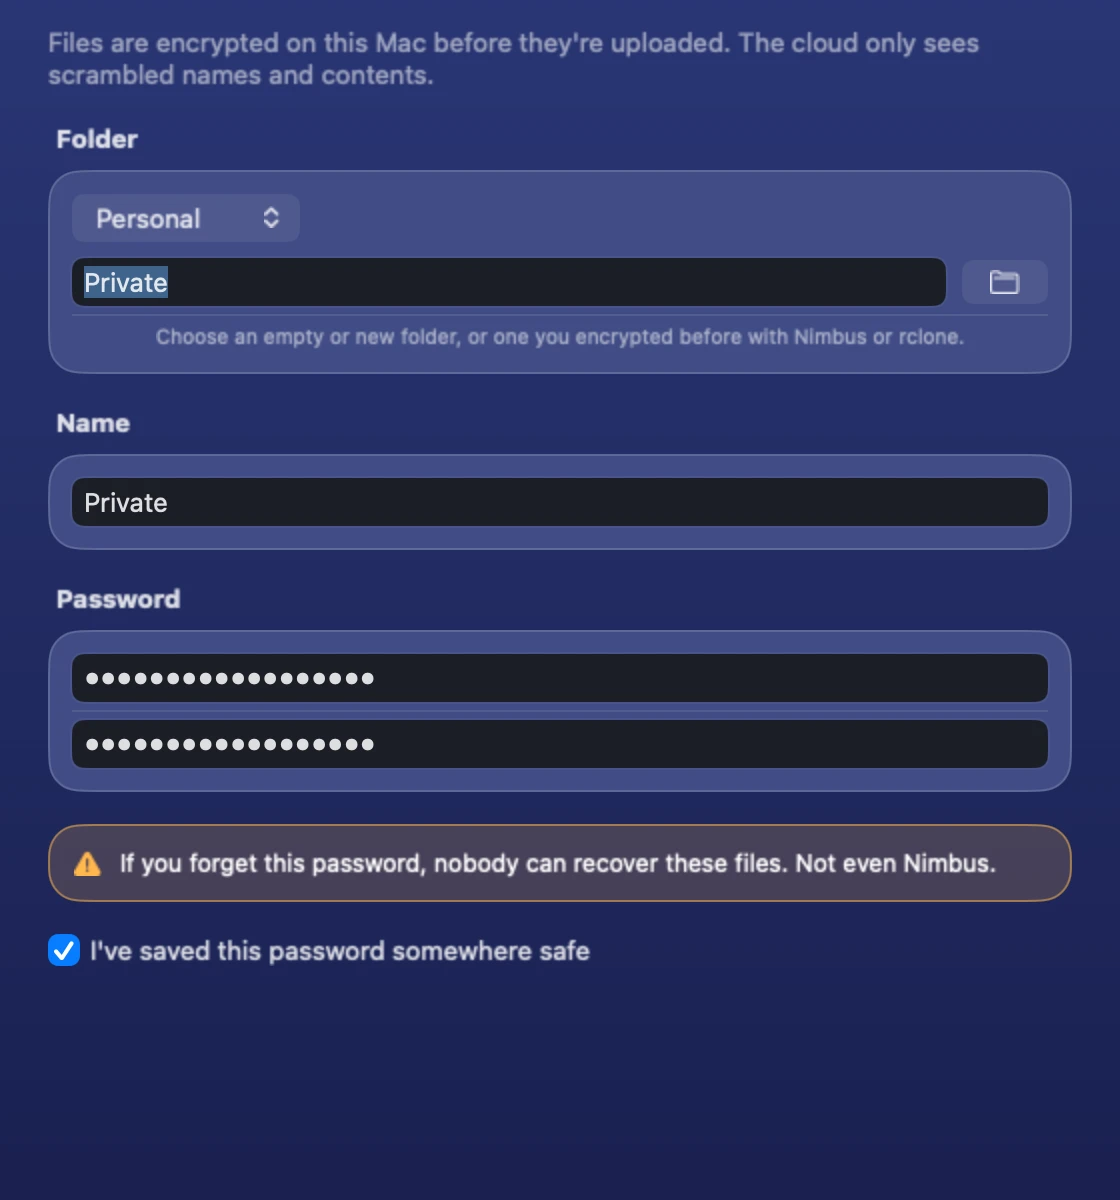
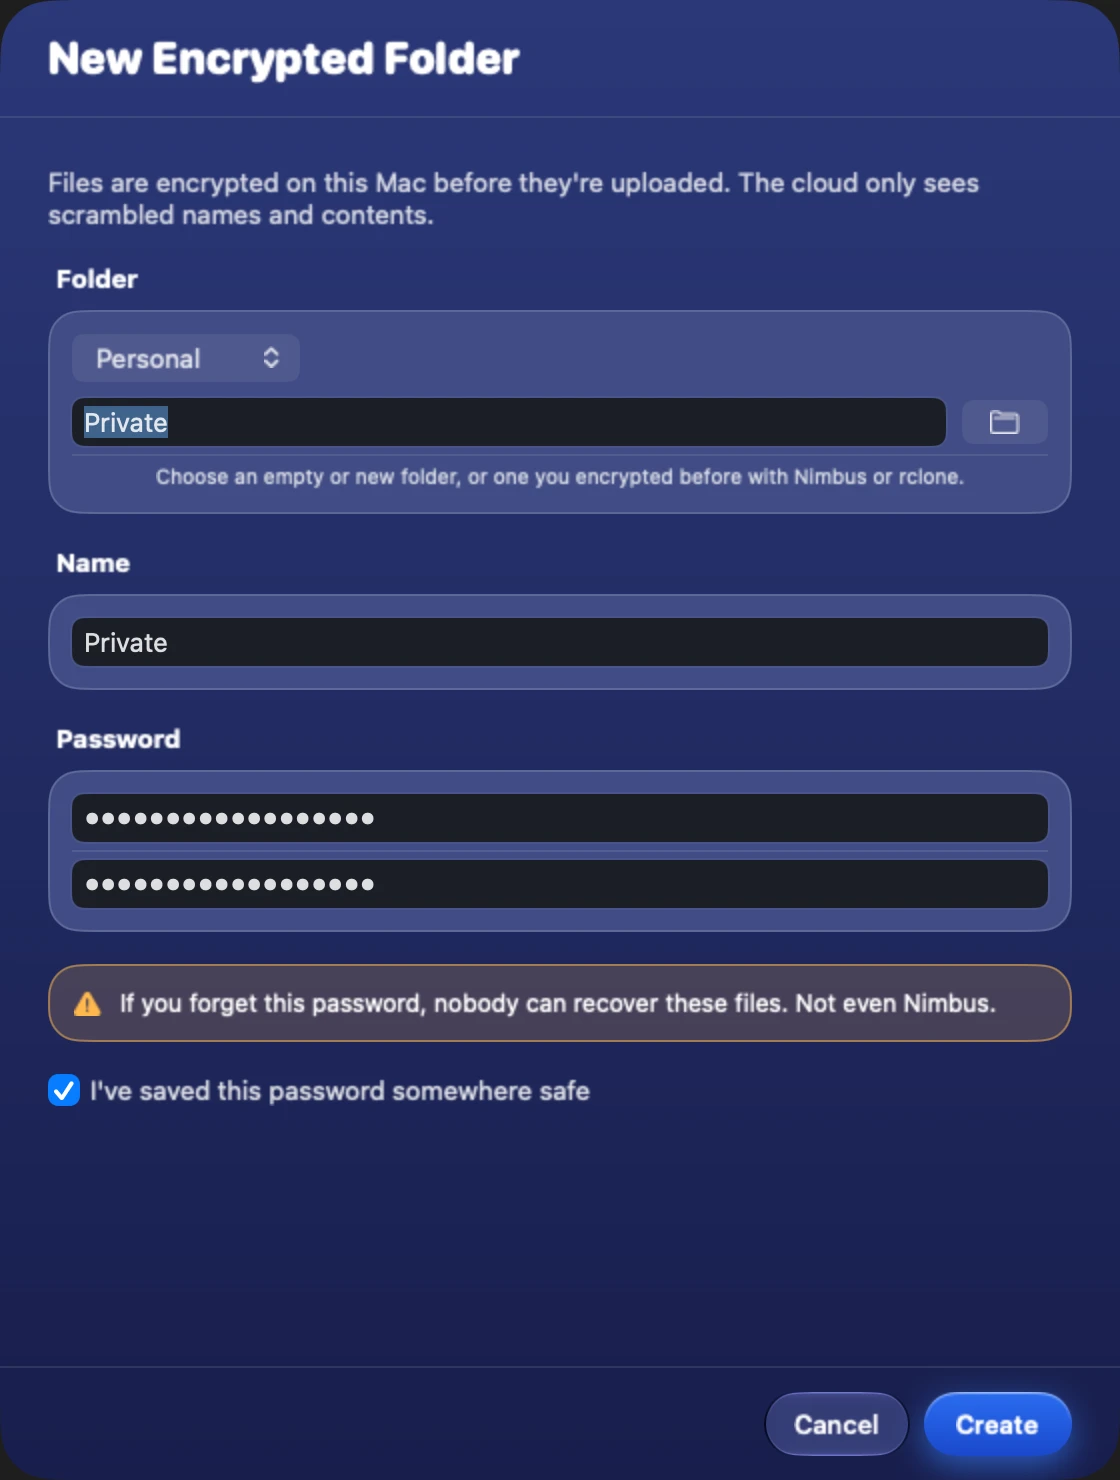
fix(nimbus): clean screenshots, re-rendered sheets and headline accents (#49)
Copy of site/ from CasaVargas/Nimbus#179: sheet corners clipped, the More
screenshots cropped or re-rendered, Keep on this Mac drawn in CSS, the File
Provider panel rebalanced, gradient headline accents.

diff --git a/public/nimbus/styles.css b/public/nimbus/styles.css
@@ -25,6 +25,7 @@
   --sky-low: #150c38;
   --action-top: #3d7dff;
   --action-low: #1f55e6;
+  --accent: linear-gradient(100deg, #6aa9ff, #a78bff 70%, #d08bff);
 
   --nav-h: 48px;
   --r-tile: 28px;
@@ -93,6 +94,8 @@ code { font-family: var(--mono); font-size: .9em; background: rgba(255,255,255,.
 .section--black { background: var(--black); color: var(--on-dark); }
 .section--black .win { box-shadow: 0 0 0 1px rgba(255,255,255,.12), 0 0 160px -20px rgba(72,120,255,.5); }
 @media (max-width: 700px) { .section { padding: 84px 0; } }
+/* Two black chapters in a row share one gap, not two. */
+.section--black + .section--black { padding-top: 0; }
 
 /* The app's backdrop: a navy-to-violet fall with two glows. */
 .sky {
@@ -106,8 +109,10 @@ code { font-family: var(--mono); font-size: .9em; background: rgba(255,255,255,.
 
 .head { text-align: center; max-width: 980px; margin: 0 auto 72px; }
 .head h2 { font-size: clamp(38px, 7vw, 84px); line-height: 1.02; letter-spacing: -0.03em; }
-.head h2 span { color: var(--ink-3); }
-.section--black .head h2 span, .sky .head h2 span { color: #8f93b0; }
+/* The second half of each headline is set in the page's one accent gradient,
+   the same one the manifesto's keywords use. */
+.head h2 span { color: transparent; background: var(--accent); -webkit-background-clip: text; background-clip: text;
+  -webkit-box-decoration-break: clone; box-decoration-break: clone; padding-bottom: .12em; }
 .lede { font-size: clamp(18px, 2vw, 21px); line-height: 1.4; color: var(--ink-2); max-width: 700px; margin: 22px auto 0; letter-spacing: -0.014em; }
 .section--black .lede { color: var(--on-dark-2); }
 .sky .lede { color: #c5c9e6; }
@@ -227,8 +232,28 @@ code { font-family: var(--mono); font-size: .9em; background: rgba(255,255,255,.
 
 .tile__img { margin: -10px -10px 26px; }
 .tile__img img { width: 100%; border-radius: 14px; box-shadow: 0 0 0 1px rgba(255,255,255,.12), 0 24px 50px -20px rgba(0,0,0,.7); }
-.tile__img--sheet img { border-radius: 22px 22px 14px 14px; }
-.tile__img--small { max-width: 240px; margin: 0 0 auto; padding-bottom: 26px; }
+/* A screenshot whose lower half is empty: keep the top, fade the cut. */
+.tile__img--crop { position: relative; }
+.tile__img--crop img { aspect-ratio: var(--crop); object-fit: cover; object-position: top; }
+.tile__img--crop::after { content: ""; position: absolute; inset: 86% -1px -1px; pointer-events: none;
+  background: linear-gradient(180deg, rgba(12,16,48,0), #0c1030); }
+/* A whole sheet. The render is opaque, black outside its rounded corners,
+   so the corners are cut here, as they are for the Add Cloud sheets. */
+.tile__img--sheet { container-type: inline-size; }
+.tile--dark .tile__img--sheet img { border-radius: 5cqw; }
+/* A plain system sheet, square in the render: round it and ring it here. */
+.tile__img--frame { border-radius: 14px; overflow: hidden; box-shadow: 0 0 0 1px rgba(255,255,255,.12), 0 24px 50px -20px rgba(0,0,0,.7); }
+.tile--dark .tile__img--frame img { border-radius: 0; box-shadow: none; }
+
+/* Keep on this Mac: the inspector's switch, drawn. */
+.tile__top { margin-bottom: auto; padding-bottom: 30px; }
+.keep { max-width: 300px; padding: 16px 18px; border-radius: 18px; background: rgba(255,255,255,.07);
+  box-shadow: inset 0 1px 0 rgba(255,255,255,.16), inset 0 0 0 1px rgba(255,255,255,.08); }
+.tile .keep__row { display: flex; align-items: center; justify-content: space-between; gap: 16px; font-size: 16px; font-weight: 600; color: #fff; }
+.keep__switch { position: relative; flex: none; width: 44px; height: 26px; border-radius: 13px;
+  background: linear-gradient(var(--action-top), var(--action-low)); box-shadow: 0 0 22px rgba(61,125,255,.7); }
+.keep__switch::after { content: ""; position: absolute; top: 2px; right: 2px; width: 22px; height: 22px; border-radius: 50%; background: #fff; box-shadow: 0 1px 3px rgba(0,0,0,.4); }
+.tile .keep__note { margin-top: 6px; font-size: 13px; color: var(--ink-3); }
 @media (max-width: 900px) {
   .bento, .bento--2 { grid-template-columns: 1fr; }
   .tile--span2, .tile--span3 { grid-column: auto; }
@@ -246,11 +271,14 @@ code { font-family: var(--mono); font-size: .9em; background: rgba(255,255,255,.
 .tile .ring__label span { font-size: 13px; color: #c5c9e6; margin-top: 6px; }
 
 /* ---------- Add Cloud sheets ---------- */
-.sheets { display: grid; grid-template-columns: 1184fr 1200fr; gap: 44px; align-items: start; max-width: 940px; margin: 0 auto; }
-.sheets img { filter: drop-shadow(0 30px 50px rgba(0,0,0,.45)); }
+.sheets { display: grid; grid-template-columns: 1184fr 1200fr; gap: 44px; align-items: center; max-width: 940px; margin: 0 auto; }
+/* The renders are opaque, with black outside the sheet's rounded corners, so
+   the corners are cut here: a radius that scales with the picture. */
+.sheets figure { container-type: inline-size; }
+.sheets img { width: 100%; border-radius: 5cqw; box-shadow: 0 0 0 1px rgba(255,255,255,.14), 0 30px 60px -20px rgba(0,0,0,.6), 0 0 120px -30px rgba(72,120,255,.6); }
 @media (max-width: 760px) { .sheets { grid-template-columns: 1fr; max-width: 440px; } }
 .sheets--backups { grid-template-columns: 1272fr 1200fr; margin-top: 56px; align-items: center; }
-.sheets--backups img { border-radius: 20px; filter: none; box-shadow: 0 0 0 1px rgba(255,255,255,.12), 0 0 120px -30px rgba(72,120,255,.6); }
+.sheets--backups img { border-radius: 4.4cqw; }
 .section--black .sheets figcaption { color: #8f93b0; }
 @media (max-width: 760px) { .sheets--backups { grid-template-columns: 1fr; } }
 
@@ -326,7 +354,7 @@ code { font-family: var(--mono); font-size: .9em; background: rgba(255,255,255,.
 .manifesto { background: var(--black); color: var(--on-dark); padding: 120px 0 40px; }
 .manifesto__pin { max-width: 1080px; margin: 0 auto; padding: 0 22px; }
 .manifesto__text { font-family: var(--display); font-weight: 700; font-size: clamp(30px, 5.6vw, 68px); line-height: 1.1; letter-spacing: -0.028em; text-wrap: balance; }
-.manifesto__text b { font-weight: inherit; color: transparent; background: linear-gradient(100deg, #6aa9ff, #a78bff 70%, #d08bff); -webkit-background-clip: text; background-clip: text; }
+.manifesto__text b { font-weight: inherit; color: transparent; background: var(--accent); -webkit-background-clip: text; background-clip: text; }
 
 /* ---------- On your Mac: the wall of system surfaces ---------- */
 .mac { position: relative; overflow: hidden; padding-top: 120px; }
@@ -347,7 +375,7 @@ code { font-family: var(--mono); font-size: .9em; background: rgba(255,255,255,.
 .sys__copy p { margin-top: 10px; font-size: 17px; line-height: 1.4; color: #b9bedd; max-width: 17em; }
 /* The panel hangs from the top edge, the way it hangs from the menu bar. */
 .sys__tile--menubar .sys__copy { max-width: 46%; }
-.sys__tile--menubar img { position: absolute; right: 36px; top: 0; width: min(44%, 300px); border-radius: 0 0 18px 18px;
+.sys__tile--menubar img { position: absolute; right: 36px; top: 0; height: calc(100% - 30px); width: auto; border-radius: 0 0 18px 18px;
   box-shadow: 0 0 0 1px rgba(255,255,255,.14), 0 30px 80px -20px rgba(40,70,200,.7); }
 .acts { margin-top: 28px; display: grid; gap: 10px; }
 .acts li { display: flex; align-items: center; gap: 12px; padding: 12px 14px; border-radius: 16px; font-size: 16px; font-weight: 600; color: #fff;
@@ -363,10 +391,10 @@ code { font-family: var(--mono); font-size: .9em; background: rgba(255,255,255,.
 .sys-list dd { margin-top: 6px; font-size: 15px; line-height: 1.45; color: #b9bedd; }
 @media (max-width: 900px) { .sys { grid-template-columns: 1fr; } .sys-list { grid-template-columns: repeat(2, 1fr); } }
 @media (max-width: 600px) { .sys-list { grid-template-columns: 1fr; } .sys__tile { padding: 28px; }
-  .sys__tile--menubar { min-height: 0; padding-bottom: 0; } .sys__tile--menubar .sys__copy { max-width: none; } .sys__tile--menubar img { position: static; width: 78%; margin: 24px auto 0; border-radius: 18px 18px 0 0; } }
+  .sys__tile--menubar { min-height: 0; padding-bottom: 0; } .sys__tile--menubar .sys__copy { max-width: none; } .sys__tile--menubar img { position: static; width: 78%; height: auto; margin: 24px auto 0; border-radius: 18px 18px 0 0; } }
 
 /* File Provider: the one panel the chapter is about. */
-.fp { display: grid; grid-template-columns: 5fr 7fr; gap: 48px; align-items: center; border-radius: 36px; padding: clamp(28px, 4.4vw, 60px);
+.fp { display: grid; grid-template-columns: 11fr 9fr; gap: 56px; align-items: center; border-radius: 36px; padding: clamp(28px, 4.4vw, 60px);
   background:
     radial-gradient(70% 90% at 100% 0%, rgba(64,120,255,.42), transparent 70%),
     radial-gradient(60% 80% at 0% 100%, rgba(128,72,255,.34), transparent 70%),
@@ -375,13 +403,14 @@ code { font-family: var(--mono); font-size: .9em; background: rgba(255,255,255,.
 .fp h3 { font-family: var(--display); font-weight: 700; font-size: clamp(44px, 6.4vw, 84px); line-height: .98; letter-spacing: -0.035em;
   color: transparent; background: linear-gradient(100deg, #fff 10%, #9fc0ff 60%, #b99cff); -webkit-background-clip: text; background-clip: text; padding-bottom: .08em; }
 .fp__lede { font-size: clamp(18px, 2vw, 22px); line-height: 1.35; color: #dfe3fa; margin-top: 14px; letter-spacing: -0.015em; }
-.fp__list { margin-top: 26px; display: grid; gap: 12px; }
+.fp__list { display: grid; gap: 14px; }
 .fp__list li { font-size: 16px; line-height: 1.42; color: #b9bedd; padding-left: 18px; position: relative; }
 .fp__list li::before { content: ""; position: absolute; left: 0; top: .62em; width: 6px; height: 6px; border-radius: 50%; background: #6aa9ff; }
 .fp__list strong { color: #fff; font-weight: 600; }
 .fp__fine { margin-top: 26px; font-size: 14px; font-weight: 600; color: #9fc0ff; }
+.fp__shot { margin-top: 36px; }
 .fp__shot img { width: 100%; border-radius: 14px; box-shadow: 0 0 0 1px rgba(255,255,255,.16), 0 40px 80px -24px rgba(0,0,0,.75); }
-@media (max-width: 900px) { .fp { grid-template-columns: 1fr; gap: 32px; } .fp__shot { order: -1; } }
+@media (max-width: 900px) { .fp { grid-template-columns: 1fr; gap: 32px; } }
 /* ---------- Privacy: three zeros ---------- */
 .zeros { display: grid; grid-template-columns: repeat(3, 1fr); gap: 24px; text-align: center; margin: 0 0 72px; }
 .zeros dt { font-family: var(--display); font-weight: 700; font-size: clamp(96px, 17vw, 200px); line-height: .9; letter-spacing: -0.04em;

diff --git a/public/nimbus/index.html b/public/nimbus/index.html
@@ -127,9 +127,12 @@
     </header>
 
     <article class="fp">
-      <div class="fp__copy">
+      <div class="fp__main">
         <h3>File Provider</h3>
         <p class="fp__lede">One Apple framework, and everything Finder knows how to do with a cloud comes with it.</p>
+        <figure class="fp__shot"><img src="assets/finder-demo.png" width="920" height="406" alt="A Finder window open on a cloud named Nimbus - Personal, listed under Locations beside iCloud Drive. Photos and PDFs show real thumbnails, each with a cloud badge, before any file is downloaded. Demo files." loading="lazy"></figure>
+      </div>
+      <div class="fp__copy">
         <ul class="fp__list">
           <li><strong>Under Locations.</strong> Each cloud sits in Finder’s sidebar and in every app’s Open and Save panel.</li>
           <li><strong>Files on demand.</strong> A file downloads when you open it. macOS manages the local copies and frees the space when it needs to.</li>
@@ -142,7 +145,6 @@
         </ul>
         <p class="fp__fine">No kernel extension. No FUSE. Nothing to approve in Recovery.</p>
       </div>
-      <figure class="fp__shot"><img src="assets/finder-demo.png" width="920" height="406" alt="A Finder window open on a cloud named Nimbus - Personal, listed under Locations beside iCloud Drive. Photos and PDFs show real thumbnails, each with a cloud badge, before any file is downloaded. Demo files." loading="lazy"></figure>
     </article>
 
     <h3 class="wall__title">And everywhere else macOS offers an app a place to live.</h3>
@@ -199,9 +201,12 @@
         <p>Photos and PDFs in the cloud show real previews in Finder, made on demand and cached, so you can find the right file without pulling it down first.</p>
       </article>
       <article class="tile tile--white">
-        <figure class="tile__img tile__img--small">
-          <img src="assets/keep-on-this-mac.png" width="240" height="118" alt="The Keep on this Mac switch." loading="lazy">
-        </figure>
+        <div class="tile__top">
+          <div class="keep" role="img" aria-label="The Keep on this Mac switch, turned on. Stays downloaded and up to date.">
+            <p class="keep__row"><span>Keep on this Mac</span><i class="keep__switch"></i></p>
+            <p class="keep__note">Stays downloaded and up to date.</p>
+          </div>
+        </div>
         <h3>Keep on this Mac</h3>
         <p>Pin a file or folder and it stays downloaded. Finder’s own “Keep Downloaded” and “Remove Download” commands work too.</p>
       </article>
@@ -386,22 +391,22 @@
     </header>
     <div class="bento">
       <article class="tile tile--dark tile--span2 tile--top">
-        <figure class="tile__img"><img src="assets/search.webp" width="1500" height="914" alt="Search results for the word lease, grouped by cloud: two files in Personal, one in Dropbox, Photo Archive still searching, and Work asking to sign in again. Demo data." loading="lazy"></figure>
+        <figure class="tile__img tile__img--crop" style="--crop: 1500 / 820"><img src="assets/search.webp" width="1500" height="914" alt="Search results for the word lease, grouped by cloud: two files in Personal, one in Dropbox, Photo Archive still searching, and Work asking to sign in again. Demo data." loading="lazy"></figure>
         <h3>Search across clouds</h3>
         <p>Type a file name once and Nimbus looks in every cloud at the same time. Results arrive cloud by cloud.</p>
       </article>
       <article class="tile tile--dark tile--top">
-        <figure class="tile__img tile__img--sheet"><img src="assets/encrypted-folder.webp" width="1120" height="1200" alt="The New Encrypted Folder sheet: a folder named Private inside the Personal cloud, a name, a password typed twice, and a warning that nobody can recover the files if the password is forgotten. Demo data." loading="lazy"></figure>
+        <figure class="tile__img tile__img--sheet"><img src="assets/encrypted-folder.webp" width="1120" height="1480" alt="The New Encrypted Folder sheet: a folder named Private inside the Personal cloud, a name, a password typed twice, a warning that nobody can recover the files if the password is forgotten, and the buttons Cancel and Create. Demo data." loading="lazy"></figure>
         <h3>New Encrypted Folder</h3>
         <p>A guided setup for a folder whose contents are encrypted before they leave this Mac, inside any cloud you already use.</p>
       </article>
       <article class="tile tile--dark tile--span2 tile--top">
-        <figure class="tile__img"><img src="assets/compare.webp" width="1500" height="976" alt="Compare Folders results: 2 files different, 3 only in Documents, 1 only in the cloud copy, 4 the same, with the two different files listed. Demo data." loading="lazy"></figure>
+        <figure class="tile__img tile__img--crop" style="--crop: 1500 / 640"><img src="assets/compare.webp" width="1500" height="976" alt="Compare Folders results: 2 files different, 3 only in Documents, 1 only in the cloud copy, 4 the same, with the two different files listed. Demo data." loading="lazy"></figure>
         <h3>Compare Folders</h3>
         <p>Pick two folders, on any clouds or this Mac, and see what is only on one side, what differs and what matches. Nothing is changed.</p>
       </article>
       <article class="tile tile--dark tile--top">
-        <figure class="tile__img"><img src="assets/versions.webp" width="816" height="802" alt="Version History for a file named Deck.key: three earlier versions with their dates and sizes, each with Restore and Download buttons. Demo data." loading="lazy"></figure>
+        <figure class="tile__img tile__img--frame"><img src="assets/versions.webp" width="880" height="620" alt="Version History for a file named Deck.key: three earlier versions with their dates and sizes, each with Restore and Download buttons. Demo data." loading="lazy"></figure>
         <h3>Version history</h3>
         <p>For Amazon S3 and Backblaze B2, the versions the service kept of a file. Restore one or download it.</p>
       </article>
@@ -411,7 +416,7 @@
         <p>Flip a folder to Gallery and step through it with the arrow keys: one large preview over a filmstrip. Photos and PDFs show as pictures while they are still in the cloud.</p>
       </article>
       <article class="tile tile--dark tile--top">
-        <figure class="tile__img"><img src="assets/send-to-nimbus.webp" width="960" height="460" alt="The Send to Nimbus sheet: three items, 14.2 MB, going to a folder named Inbox in the Personal cloud, with Cancel and Send buttons. Demo data." loading="lazy"></figure>
+        <figure class="tile__img tile__img--frame"><img src="assets/send-to-nimbus.webp" width="960" height="460" alt="The Send to Nimbus sheet: three items, 14.2 MB, going to a folder named Inbox in the Personal cloud, with Cancel and Send buttons. Demo data." loading="lazy"></figure>
         <h3>Send to Nimbus</h3>
         <p>From Finder, Photos, Preview or any other app, choose Share and then Nimbus, or Services and then Send to Nimbus. Pick the cloud and folder once. Nimbus remembers it for next time.</p>
       </article>
